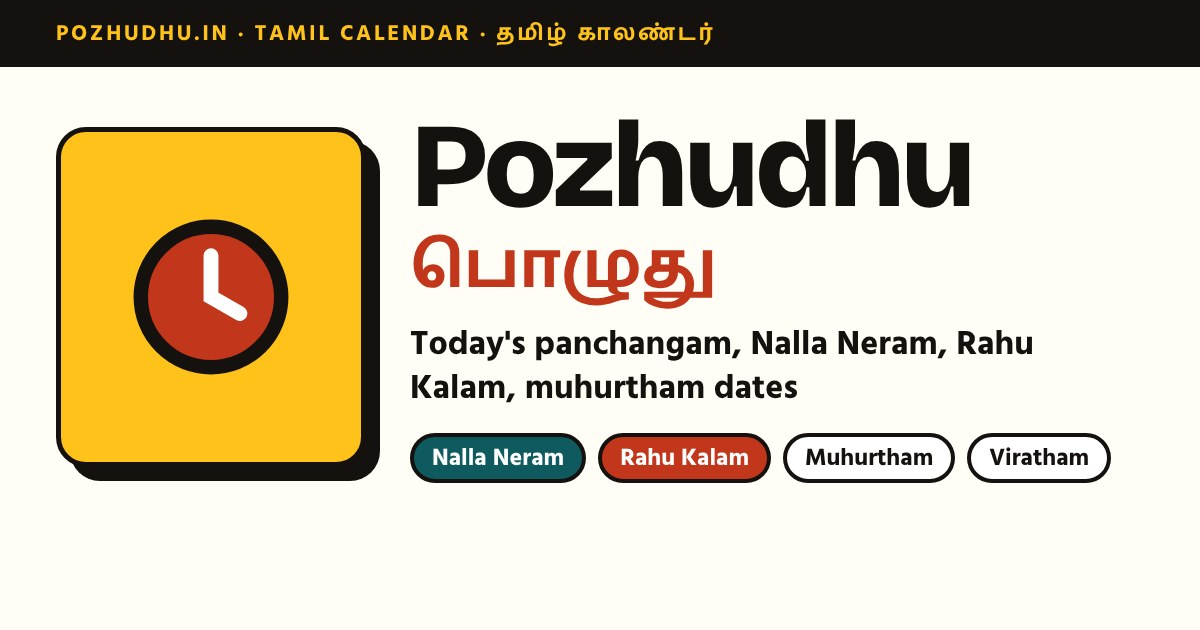
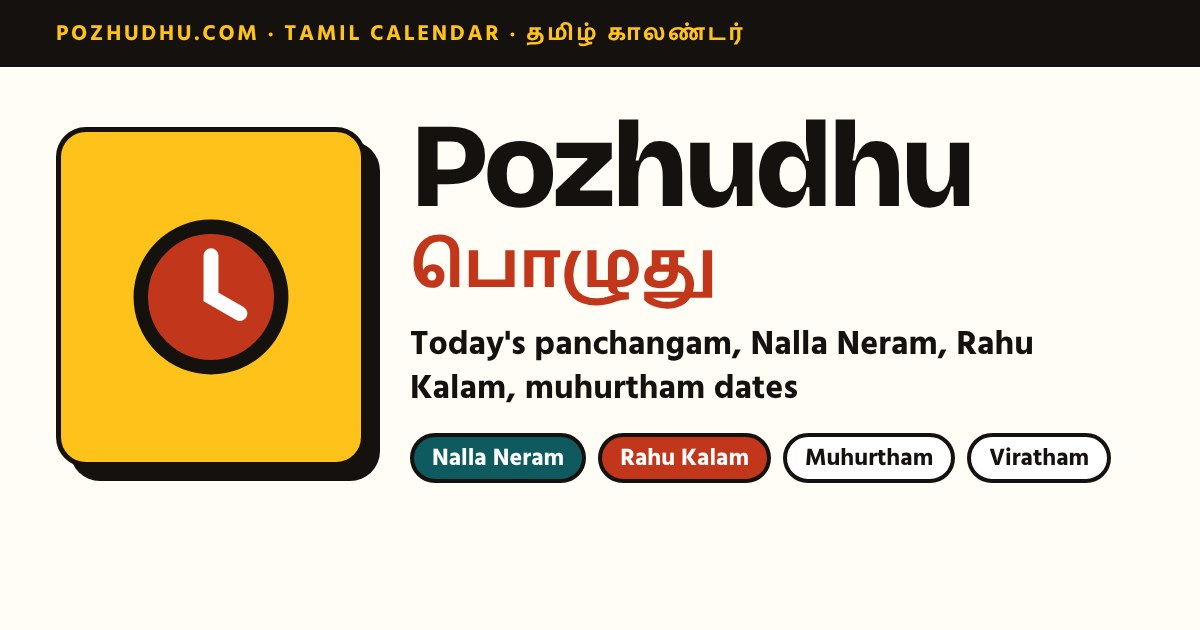
Switch domain to pozhudhu.com
Canonical URLs, hreflang, sitemap, robots, Open Graph image and contact email
now use https://pozhudhu.com. SEO audit flags any leftover pozhudhu.in.

Claude-Session: https://claude.ai/code/session_017h3yQDMUth55WsDoAk1BD7

Changed region(s): [[0.1542, 0.0302, 0.6167, 0.0905]]

diff --git a/site.config.js b/site.config.js
@@ -2,7 +2,7 @@
 // Edit this file to rebrand, change the domain, or move the calculations to another city.
 module.exports = {
   brand: { en: 'Pozhudhu', ta: 'பொழுது' },
-  domain: 'https://pozhudhu.in',                       // used for canonical URLs, sitemap and Open Graph (no trailing slash)
+  domain: 'https://pozhudhu.com',                       // used for canonical URLs, sitemap and Open Graph (no trailing slash)
   year: 2026,
   location: { name: { en: 'Chennai', ta: 'சென்னை' }, lat: 13.0827, lon: 80.2707, elev: 6 },
   // Extra years published under /<year>/ for list pages (timings, muhurtham, viratham, tithi, festivals, holidays)
@@ -19,5 +19,5 @@ module.exports = {
     '9:2026': '2026-01-15', '4:2026': '2026-08-18', '5:2026': '2026-09-18',
     '4:2027': '2027-08-18', '5:2027': '2027-09-18', '8:2027': '2027-12-17'
   },
-  contactEmail: 'contact@pozhudhu.in'                  // set up with Cloudflare Email Routing
+  contactEmail: 'contact@pozhudhu.com'                  // set up with Cloudflare Email Routing
 };

diff --git a/tools/seo-audit.js b/tools/seo-audit.js
@@ -39,7 +39,7 @@ for (const f of html) {
   if (descs.has(desc)) err.push('duplicate description ' + u); else descs.set(desc, u);
   if (title.length > 70) warn.push('title ' + title.length + ' chars ' + u);
   if (desc.length > 170 || desc.length < 70) warn.push('description ' + desc.length + ' chars ' + u);
-  if (/naazhigai|நாழிகை|example\.com|placeholder|localhost|github\.io|lorem/i.test(s)) err.push('leftover text ' + u + ' ' + s.match(/naazhigai|நாழிகை|example\.com|placeholder|localhost|github\.io|lorem/i)[0]);
+  if (/naazhigai|நாழிகை|example\.com|placeholder|localhost|github\.io|lorem|pozhudhu\.in\b/i.test(s)) err.push('leftover text ' + u + ' ' + s.match(/naazhigai|நாழிகை|example\.com|placeholder|localhost|github\.io|lorem|pozhudhu\.in\b/i)[0]);
 }
 // sitemap
 const sm = fs.readFileSync(path.join(dir, 'sitemap.xml'), 'utf8');

diff --git a/README.md b/README.md
@@ -1,4 +1,4 @@
-# Pozhudhu (pozhudhu.in) – Tamil Calendar (static site)
+# Pozhudhu (pozhudhu.com) – Tamil Calendar (static site)
 
 A complete Tamil calendar website in the "Bold Poster" design (light theme only): 1056 pages
 in English and Tamil, with 2027 versions of every list page under `/2027/`, built as plain HTML so it is fast, cheap to host and easy for Google to read.
@@ -19,14 +19,14 @@ npm run serve          # http://localhost:8080 to look at it locally
 Upload the **contents of `dist/prod`** to any static host: Netlify, Vercel, Cloudflare Pages,
 GitHub Pages, or plain nginx/Apache. `404.html`, `sitemap.xml` and `robots.txt` are at the root.
 
-## Hosting on Cloudflare Pages (pozhudhu.in)
+## Hosting on Cloudflare Pages (pozhudhu.com)
 
 - Workers & Pages → Create → Pages → Connect to Git → this repo
 - Production branch `main`, build command `npm run build`, output directory `dist/prod`
-- Custom domains: `pozhudhu.in` (and `www.pozhudhu.in`, redirected to the apex)
+- Custom domains: `pozhudhu.com` (and `www.pozhudhu.com`, redirected to the apex)
 - `_headers` (security + asset caching) and `_redirects` (old `/amavasya/` URLs) are generated into `dist/prod`
 - Every push to `main` redeploys. The `gh-pages` branch is the noindex review copy on GitHub Pages.
-- Submit `https://pozhudhu.in/sitemap.xml` in Google Search Console and Bing Webmaster Tools.
+- Submit `https://pozhudhu.com/sitemap.xml` in Google Search Console and Bing Webmaster Tools.
 - If you add analytics or ads, update the Privacy Policy text in `src/build.js` (search for `privacy-policy`).
 
 ## What is on the site
@@ -97,7 +97,7 @@ src/names.js        English + Tamil names, fixed timing tables
 src/i18n.js, src/copy.js   labels, titles, meta descriptions, FAQs (English + Tamil)
 src/shared.js       renderers shared by the build and the browser
 src/build.js        the page generator
-assets/             site.css (design system, light + dark), site.js, favicon
+assets/             site.css (design system, light theme only), site.js, favicon
 tools/              check.js (QA), serve.js (local server)
 dist/prod/          ready-to-upload website
 ```
